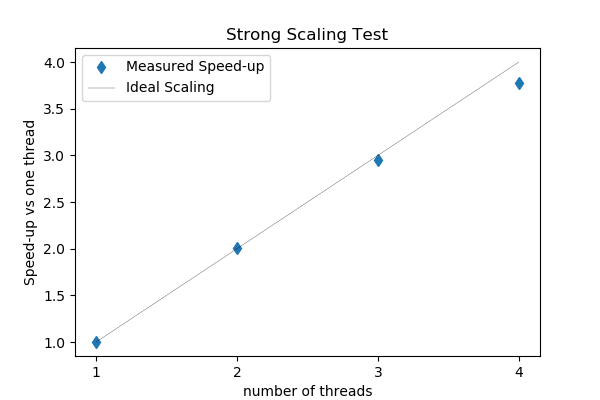
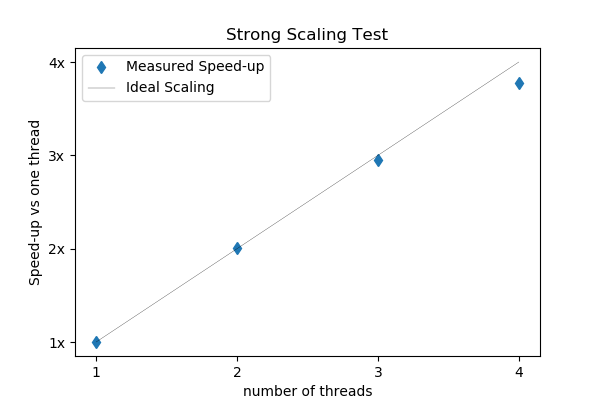
fixin typos

diff --git a/src/lib.rs b/src/lib.rs
@@ -66,31 +66,32 @@ pub fn primes(start: u64, stop: u64) -> Result<Vec<u64>> {
 
 #[cfg(test)]
 mod tests {
+
     #[test]
     fn not_prime() {
         // A couple of tricky tests that are not prime
-        assert_eq!(false, super::is_prime(1000));
-        assert_eq!(false, super::is_prime(1));
-        assert_eq!(false, super::is_prime(0));
+        assert_eq!(false, crate::is_prime(1000));
+        assert_eq!(false, crate::is_prime(1));
+        assert_eq!(false, crate::is_prime(0));
     }
     #[test]
     fn is_prime() {
         // A couple of tricky tests that are primes
-        assert_eq!(true, super::is_prime(2));
-        assert_eq!(true, super::is_prime(3));
-        assert_eq!(true, super::is_prime(31));
+        assert_eq!(true, crate::is_prime(2));
+        assert_eq!(true, crate::is_prime(3));
+        assert_eq!(true, crate::is_prime(31));
     }
 
     #[test]
     fn check_primes_func() {
         // not empty
-        assert_eq!(vec![2, 3, 5, 7], super::primes(0, 7).unwrap());
+        assert_eq!(vec![2, 3, 5, 7], crate::primes(0, 7).unwrap());
 
         // empty because start == end and start is not prime
-        assert_eq!(Vec::<u64>::default(), super::primes(10, 10).unwrap());
+        assert_eq!(Vec::<u64>::default(), crate::primes(10, 10).unwrap());
 
         // empty because no primes
-        assert_eq!(Vec::<u64>::default(), super::primes(32, 36).unwrap());
+        assert_eq!(Vec::<u64>::default(), crate::primes(32, 36).unwrap());
     }
 
 
@@ -98,6 +99,6 @@ mod tests {
     #[should_panic]
     fn stop_less_than_start() {
         // not empty
-        super::primes(10, 7).unwrap();
+        crate::primes(10, 7).unwrap();
     }
 }

diff --git a/scaling_info/scaling_plotter.py b/scaling_info/scaling_plotter.py
@@ -10,6 +10,8 @@ plt.figure(figsize=(6,4))
 plt.plot(x, (y/y[0])**-1, 'd', label='Measured Speed-up')
 plt.plot(x, x, 'k-', lw=.2, label='Ideal Scaling')
 plt.xticks([1,2,3,4])
+plt.yticks([1,2,3,4])
+plt.gca().set_yticklabels(['1x', '2x', '3x', '4x'])
 plt.title('Strong Scaling Test')
 plt.xlabel('number of threads')
 plt.ylabel('Speed-up vs one thread')

diff --git a/README.md b/README.md
@@ -3,7 +3,7 @@ A command-line program that finds all primes between two numbers passed to it in
 
 ## Overview
 This is a parallelized Rust program where you can pass it two integers and it will print a vector of all
-of the primes between the two integers (inclusive) to standard out. It is parallelized and you can change 
+of the primes between the two integers (inclusive) to standard out. It is parallelized and you can change
 the number of threads with the -N option
 
 For example
@@ -15,8 +15,8 @@ prints
 [11, 13, 17, 19]
 ```
 
-The algorithm to determine if a number is prime naïve brute force, with some care to avoid overflow errors. 
-It uses a work-stealing threadpool provided by `rayon` and the default is to set the number of threads equal 
+The algorithm to determine if a number is prime naïve brute force, with some care to avoid overflow errors.
+It uses a work-stealing threadpool provided by `rayon` and the default is to set the number of threads equal
 to the number of physical cores available, but you can change this by calling e.g.
 
 ```
@@ -28,22 +28,23 @@ More info can be found by typing
 $ ./primes_cli -h
 ```
 
-## Building parallel_primes_rs 
+## Building parallel_primes_rs
 
-This program uses a typical rust project structure containing library `./src/lib.rs` and a binary file `./src/bin.rs`. To build 
+This program uses a typical rust project structure containing library `./src/lib.rs` and a binary file `./src/bin.rs`. To build
 the program run `cargo build --release` and you will create an executable at `./target/release/primes_cli`
 
 You can also run the automated tests by running `cargo test --release`
 
 ## Strong Scaling Test
 
-Because this problem is embarassingly parallel & compute bound, we should expect the program to scale nearly ideally (~num of threads) as long 
+Because this problem is embarassingly parallel & compute bound, we should expect the program to scale nearly ideally (~num of threads) as long
 as each thread can have its own core. There is a little bit of a subtlety because if you actually print the output to standard out, you may become
 I/O bound. So to test scaling, I commented out the line in `bin.rs` that prints to stdout, and timed the code e,g, `$ time ./primes_cli -N 1 2000000 5000000`
 on my macbook with a 2.5 GHz Quad-Core Intel Core i7, changing number of threads from 1 to 4. The results are plotted below
+
 ![Strong Scaling](scaling_info/strong_scaling.png)
 
-As you can see, the problem scales nearly ideally. 
+As you can see, the problem scales nearly ideally.
 
 ## Dependencies
 - [clap](https://docs.rs/clap/) for arg parsing.
